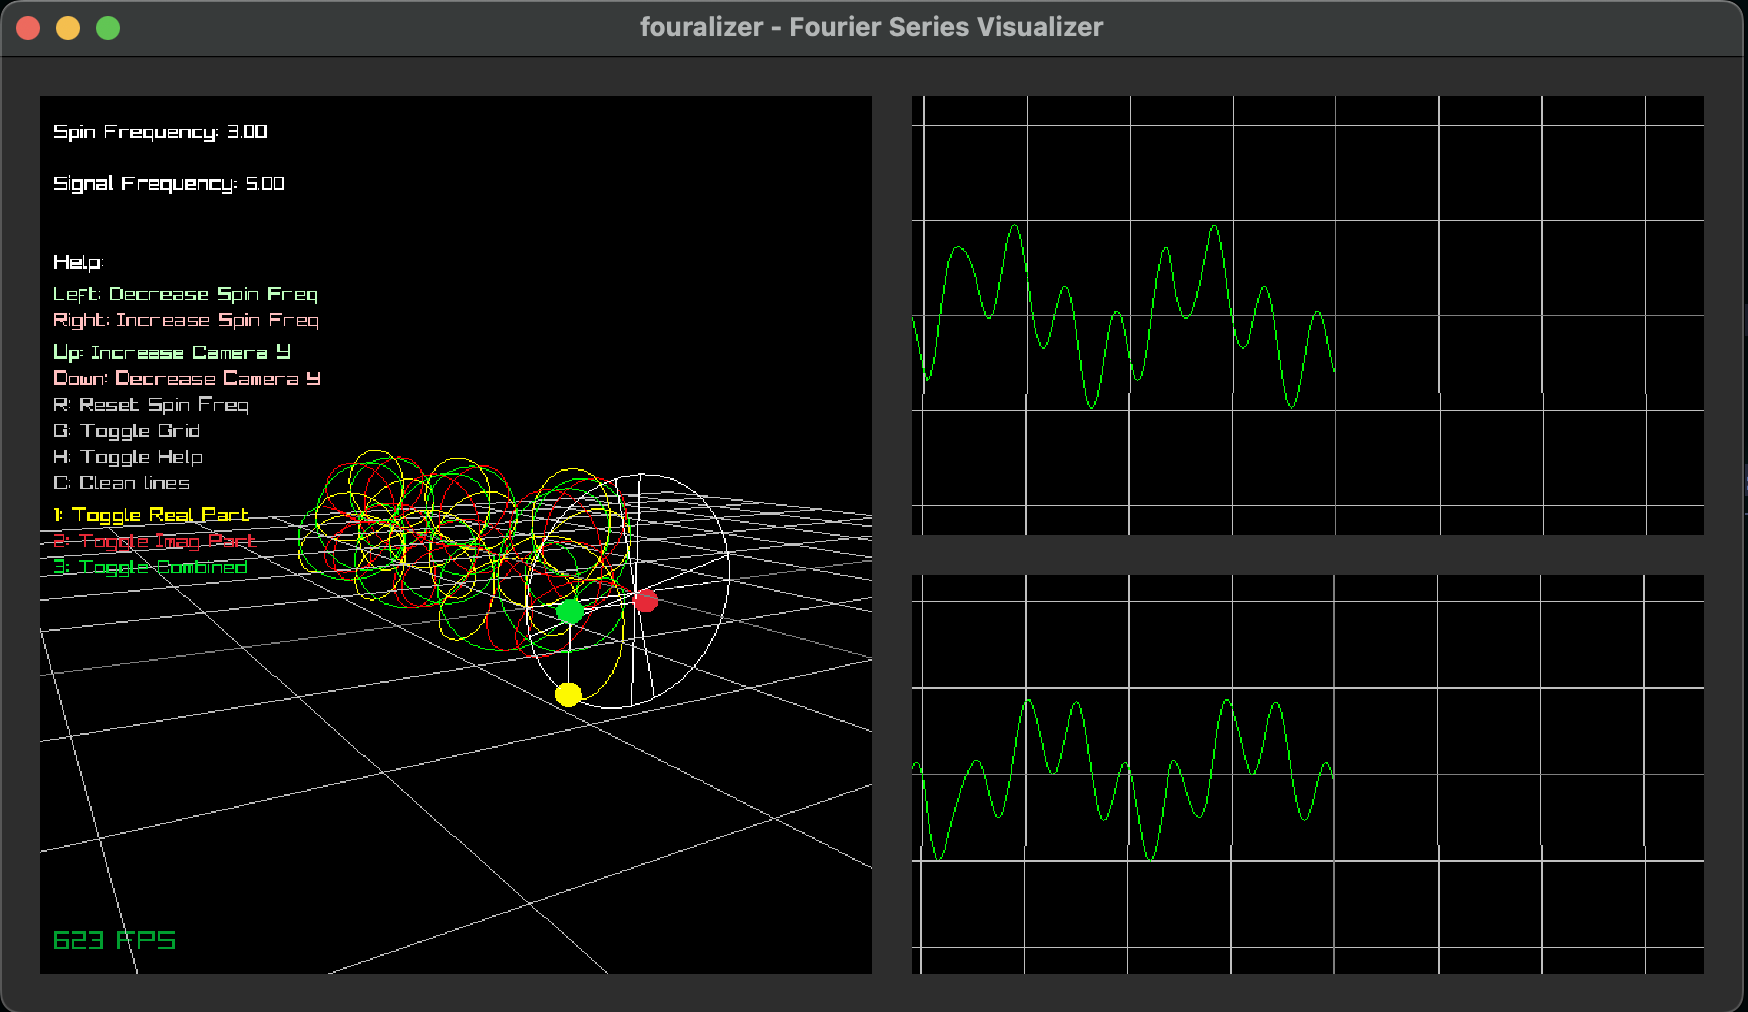
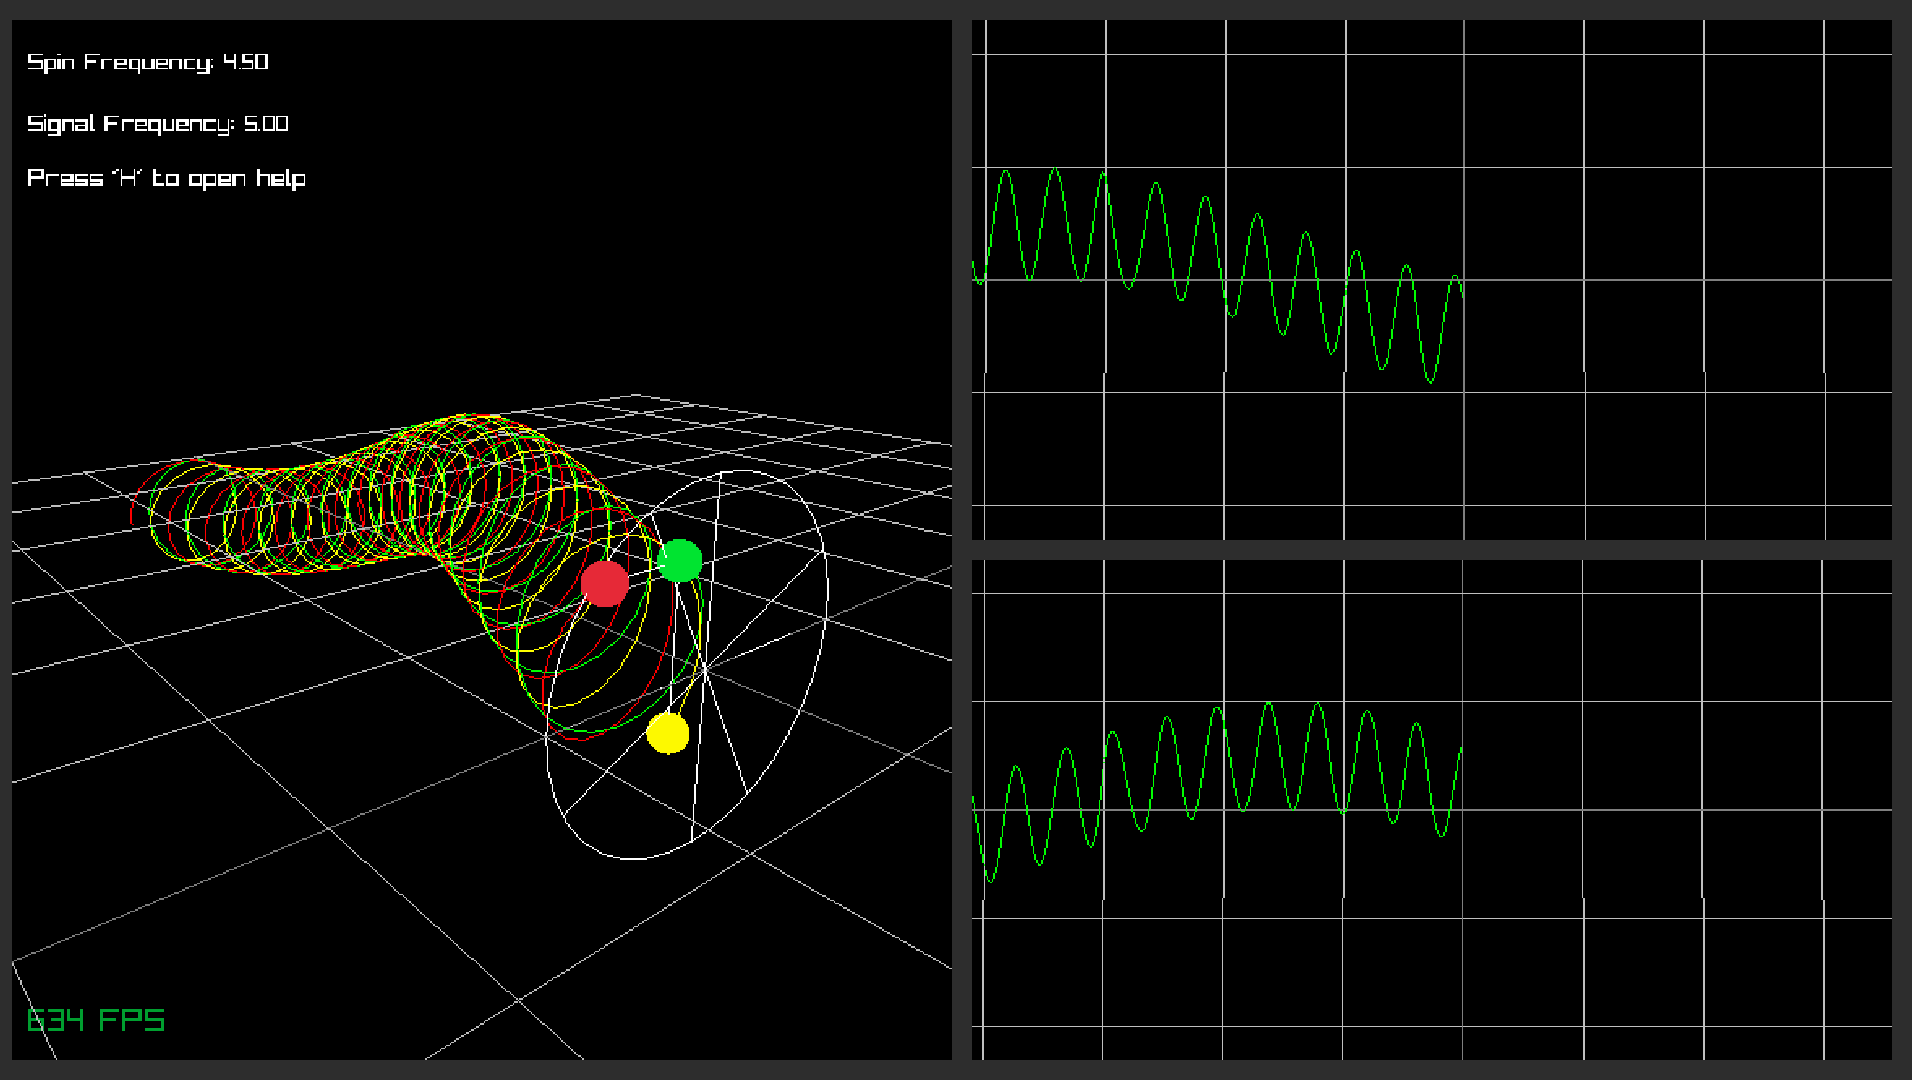
chore: minor ui change

diff --git a/src/main.c b/src/main.c
@@ -7,7 +7,7 @@
 
 #define WIDTH 1200
 #define HEIGHT 675
-#define OFFSET_UI 85
+#define OFFSET_UI 60
 #define PANEL_RATIO 2.0f
 #define FOVY 60
 #define UPVEC3                                                                 \
@@ -38,7 +38,7 @@ bool showSine = true;
 bool showCosine = true;
 bool showFunc = true;
 bool showGrid = true;
-bool showControls = true;
+bool showControls = false;
 
 Vector3 sinPoints[TOTAL_POINTS];
 Vector3 cosPoints[TOTAL_POINTS];
@@ -308,9 +308,12 @@ void DrawHelp() {
   DrawText(TextFormat("Signal Frequency: %.2f", FREQUENCY), 10, 60, 15, WHITE);
   DrawText("https://github.com/kaandesu/fouralizer", WIDTH - 325, HEIGHT - 30,
            15, RAYWHITE);
-  if (!showControls)
+  if (!showControls) {
+    DrawText("Press 'H' to open help", 10, 35 + OFFSET_UI, 16, WHITE);
     return;
-  DrawText("Help:", 10, 35 + OFFSET_UI, 16, WHITE);
+  }
+  DrawRectangle(5, 30 + OFFSET_UI, 210, 330, (Color){100, 100, 100, 100});
+  DrawText("Help: Press 'H' to close", 10, 35 + OFFSET_UI, 16, WHITE);
   DrawText("Left: Decrease Spin Freq", 10, 60 + OFFSET_UI, 15, lightGreen);
   DrawText("Right: Increase Spin Freq", 10, 80 + OFFSET_UI, 15, lightRed);
   DrawText("Up: Increase Camera Y ", 10, 105 + OFFSET_UI, 15, lightGreen);
@@ -322,6 +325,9 @@ void DrawHelp() {
   DrawText("1: Toggle Real Part ", 10, 230 + OFFSET_UI, 15, YELLOW);
   DrawText("2: Toggle Imag Part", 10, 250 + OFFSET_UI, 15, RED);
   DrawText("3: Toggle Combined", 10, 270 + OFFSET_UI, 15, GREEN);
+  DrawText("F: Toggle 3D Panel fullwidth", 10, 290 + OFFSET_UI, 15, LIGHTGRAY);
+  DrawText("L: Close Fouralizer", 10, 310 + OFFSET_UI, 15, LIGHTGRAY);
+  DrawText("Esc: Close Fouralizer", 10, 330 + OFFSET_UI, 15, LIGHTGRAY);
 }
 
 void input() {
